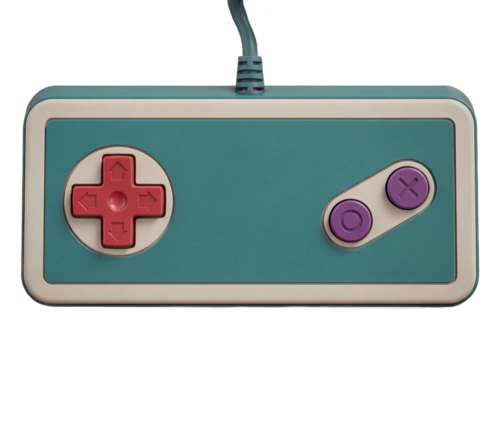
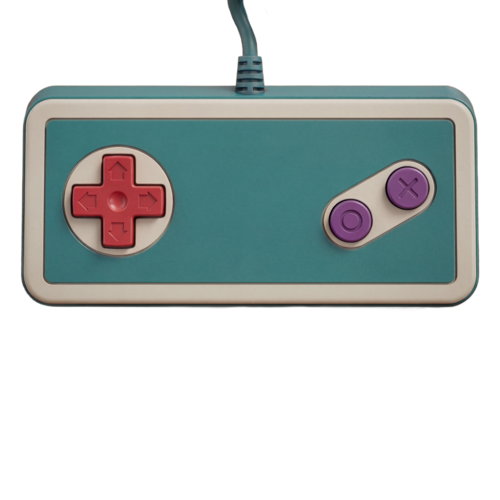
PICO-8 pause menu integration, controller UI, and build improvements
- Route pause button through OpenEmu's toggleEmulationPaused for state sync
- setPauseEmulation: sends PICO-8 pause button instead of freezing VM
- Update reset console handler to avoid sending pause to freshly reset core
- Remove pause-during-save/load (incompatible with PICO-8's in-game pause)
- Update controller images and button mappings
- Add clean option to build.sh
- Add library thumbnail

diff --git a/OpenEmu/OEGameDocument.m b/OpenEmu/OEGameDocument.m
@@ -792,7 +792,11 @@ typedef enum : NSUInteger
     {
         [_gameCoreManager resetEmulationWithCompletionHandler:
          ^{
-             [self setEmulationPaused:NO];
+             // Force status to playing without going through setPauseEmulation:,
+             // which would send a pause button press to the freshly reset core.
+             [self disableOSSleep];
+             _lastPlayStartDate = [NSDate date];
+             _emulationStatus = OEEmulationStatusPlaying;
          }];
     }
 }
@@ -1046,8 +1050,6 @@ typedef enum : NSUInteger
     if(![self supportsSaveStates])
         return;
     
-    BOOL didPauseEmulation = [self OE_pauseEmulationIfNeeded];
-
     NSInteger   saveGameNo    = 1;
     // TODO: properly format date
     NSDate *date = [NSDate date];
@@ -1061,12 +1063,8 @@ typedef enum : NSUInteger
      {
          if(result == NSAlertDefaultReturn)
          {
-             [self OE_saveStateWithName:[alert stringValue] completionHandler:
-              ^{
-                  if(didPauseEmulation) [self setEmulationPaused:NO];
-              }];
+             [self OE_saveStateWithName:[alert stringValue] completionHandler:nil];
          }
-         else if(didPauseEmulation) [self setEmulationPaused:NO];
      }];
 
     [alert runModal];
@@ -1081,11 +1079,9 @@ typedef enum : NSUInteger
         slot = [sender tag];
 
     NSString *name = [OESaveState nameOfQuickSaveInSlot:slot];
-    BOOL didPauseEmulation = [self OE_pauseEmulationIfNeeded];
 
     [self OE_saveStateWithName:name completionHandler:
      ^{
-         if(didPauseEmulation) [self setEmulationPaused:NO];
          [[[self gameViewController] gameView] showQuickSaveNotification];
     }];
 }
@@ -1159,9 +1155,6 @@ typedef enum : NSUInteger
 
 - (void)loadState:(id)sender;
 {
-    // calling pauseGame here because it might need some time to execute
-    [self OE_pauseEmulationIfNeeded];
-
     OESaveState *state = nil;
     if([sender isKindOfClass:[OESaveState class]])
         state = sender;
@@ -1212,8 +1205,6 @@ typedef enum : NSUInteger
                      [_gameSystemResponder releaseEmulatorKey:sysKey];
                  }
              }
-
-             [self setEmulationPaused:NO];
          }];
     };
 

diff --git a/OpenEmu/PICO8/OEPICO8SystemResponder.m b/OpenEmu/PICO8/OEPICO8SystemResponder.m
@@ -37,11 +37,18 @@
 
 - (void)pressEmulatorKey:(OESystemKey *)aKey
 {
+    if ([aKey key] == OEPICO8ButtonPause) {
+        // Route through the emulation pause toggle so the menu item stays in sync
+        [[self globalEventsHandler] toggleEmulationPaused:self];
+        return;
+    }
     [[self client] didPushPICO8Button:(OEPICO8Button)[aKey key]];
 }
 
 - (void)releaseEmulatorKey:(OESystemKey *)aKey
 {
+    if ([aKey key] == OEPICO8ButtonPause)
+        return;
     [[self client] didReleasePICO8Button:(OEPICO8Button)[aKey key]];
 }
 
